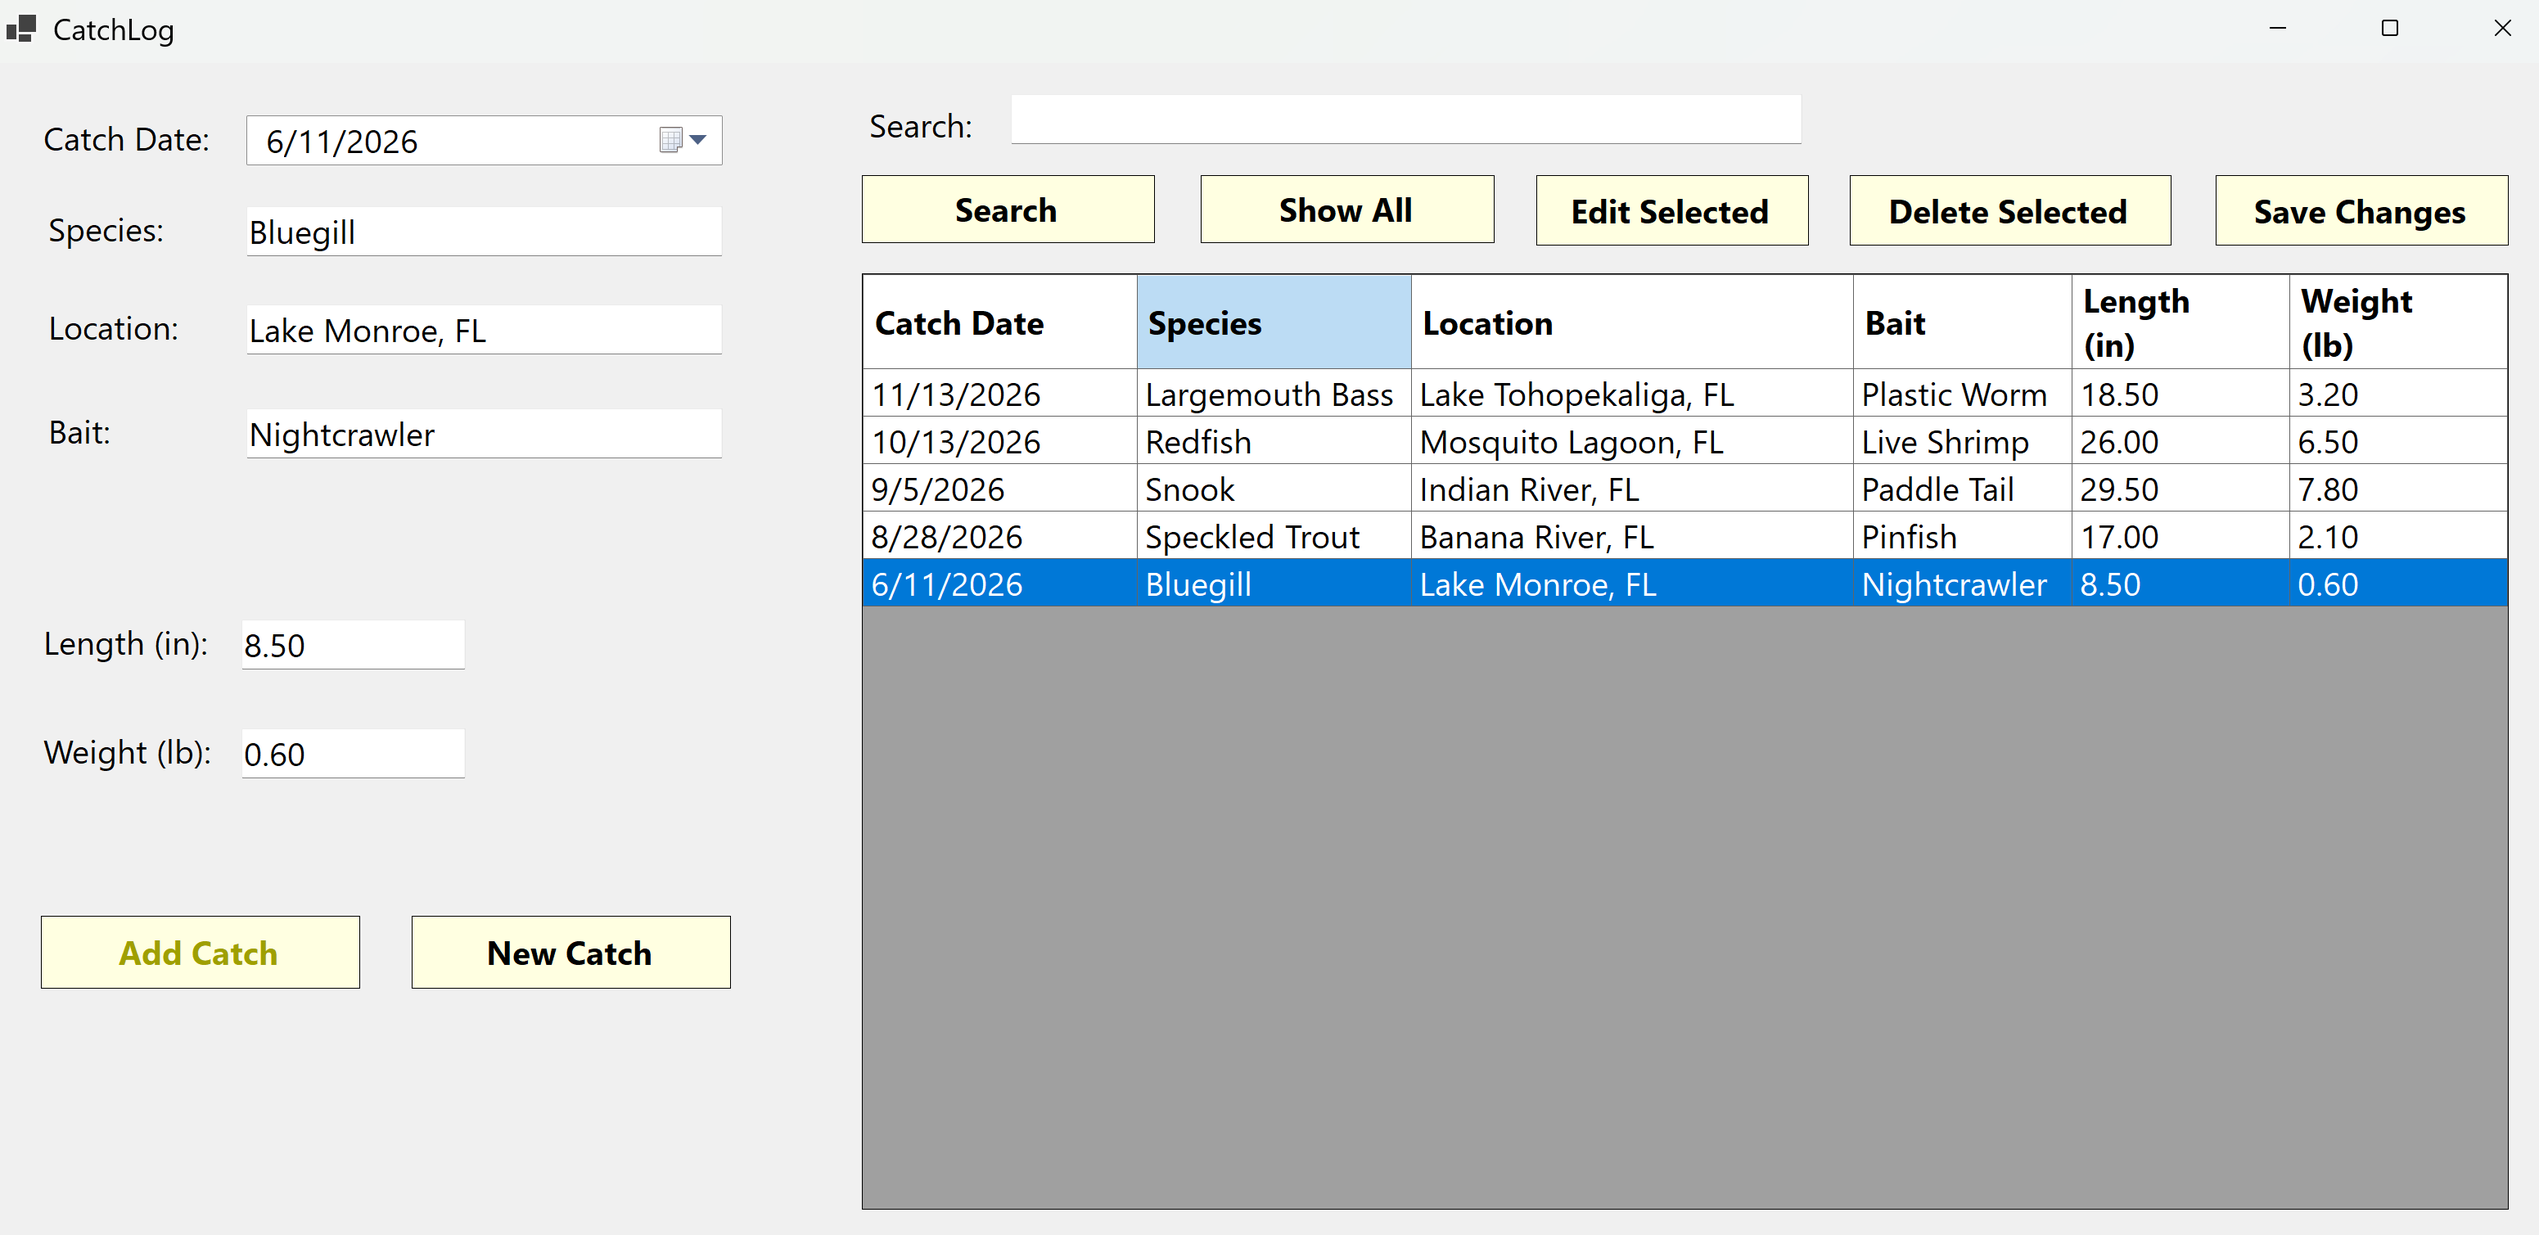
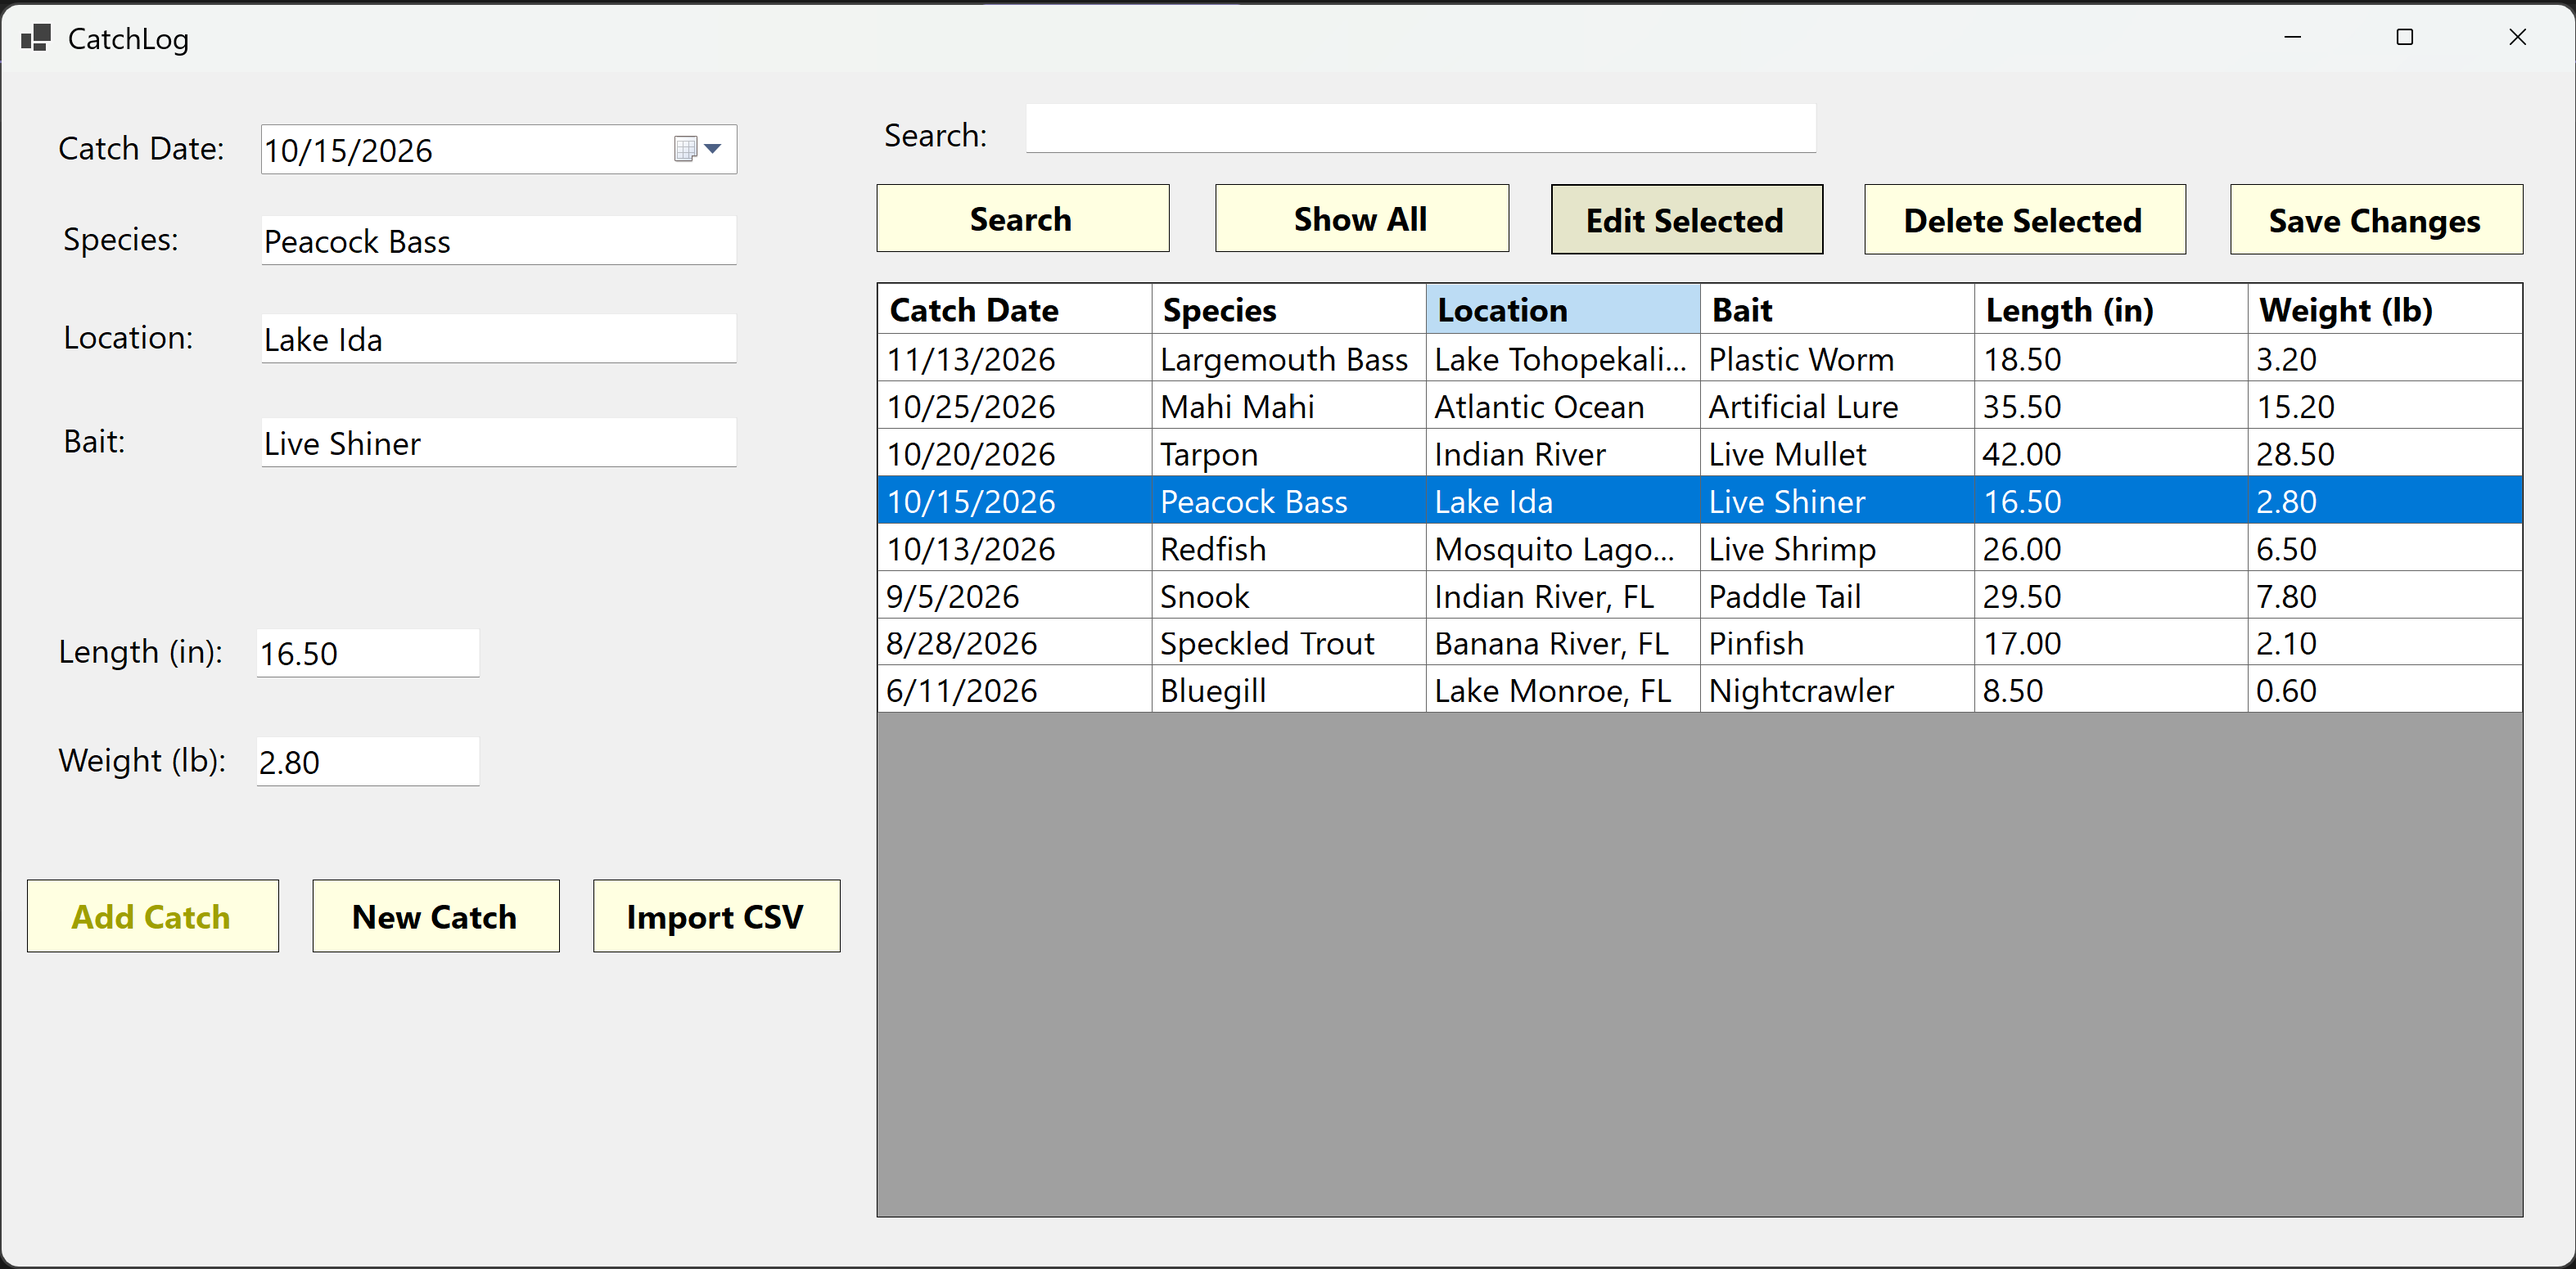
Document CSV import and add sample data

diff --git a/README.md b/README.md
@@ -19,13 +19,19 @@ I also used this project to practice writing SQL queries, validating user input,
 - Edit and update existing catches
 - Delete catches with a confirmation message
 - Check user input before saving, including required fields and valid measurements
+- Import multiple catches from a CSV file
+- Skip invalid records during CSV imports
 - Keep catch information saved after closing the application
 
+## Screenshots
 
-## Screenshot
+### Main Application
 
 ![CatchLog application](Screenshots/catchlog.png)
 
+### CSV Import
+
+![CSV import](Screenshots/csv-import.png)
 
 ## Technologies
 
@@ -50,6 +56,27 @@ This project requires Visual Studio with .NET desktop development support and SQ
 
 The application uses a LocalDB connection to save and load catch information.
 
+## CSV Import
+
+CatchLog also allows users to import multiple fishing catches from a CSV file instead of entering each one manually.
+
+To import catches:
+
+1. Open CatchLog.
+2. Click **Import CSV**.
+3. Select a CSV file containing fishing records.
+4. Click **Open**.
+
+The program checks the data before saving it to the database. Valid catches are imported, and invalid rows are skipped.
+
+A sample file is included at `Sample Data/sample-catches.csv` for testing this feature.
+
+The CSV file should contain these columns in order:
+
+`CatchDate,Species,Location,Bait,LengthInches,WeightPounds`
+
+Dates should use the `YYYY-MM-DD` format, and length and weight should be positive numbers.
+
 ## Testing
 
 I tested the application in Visual Studio to make sure the main features worked correctly.
@@ -62,10 +89,13 @@ I checked that I could:
 - Delete catches from the database
 - Enter invalid information and receive an error message
 - Close and reopen the program without losing saved catches
+- Import valid catches from a CSV file
+- Skip invalid CSV records
 
 ## Notes
 
 - CatchLog is a Windows desktop application.
 - SQL Server LocalDB needs to be installed to use the database features.
-- The database setup script is included in the project.
+- The database setup script and a sample CSV file are included in the project.
 - The application stores fishing records locally rather than connecting to an online database.
+- Importing the same CSV file more than once can create duplicate catches.
